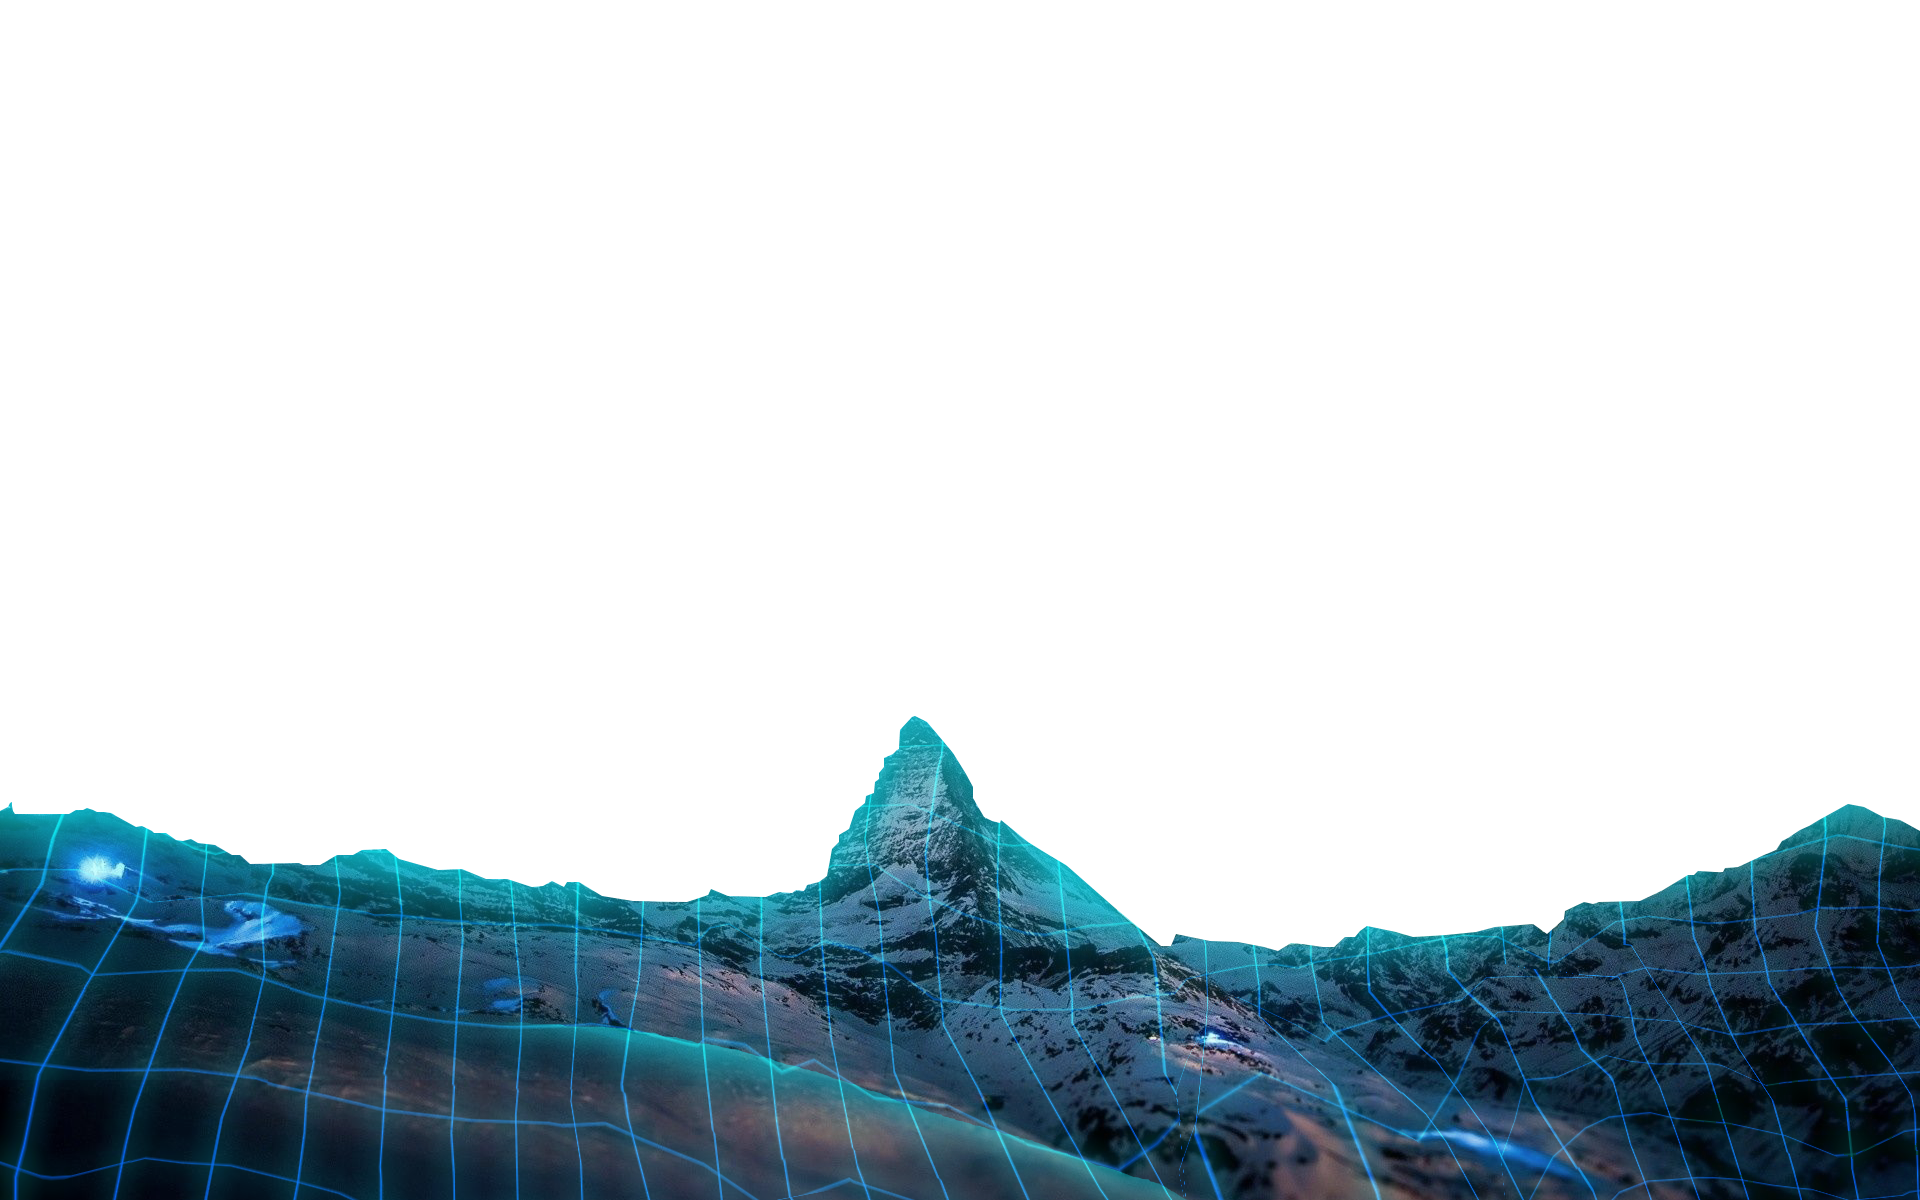
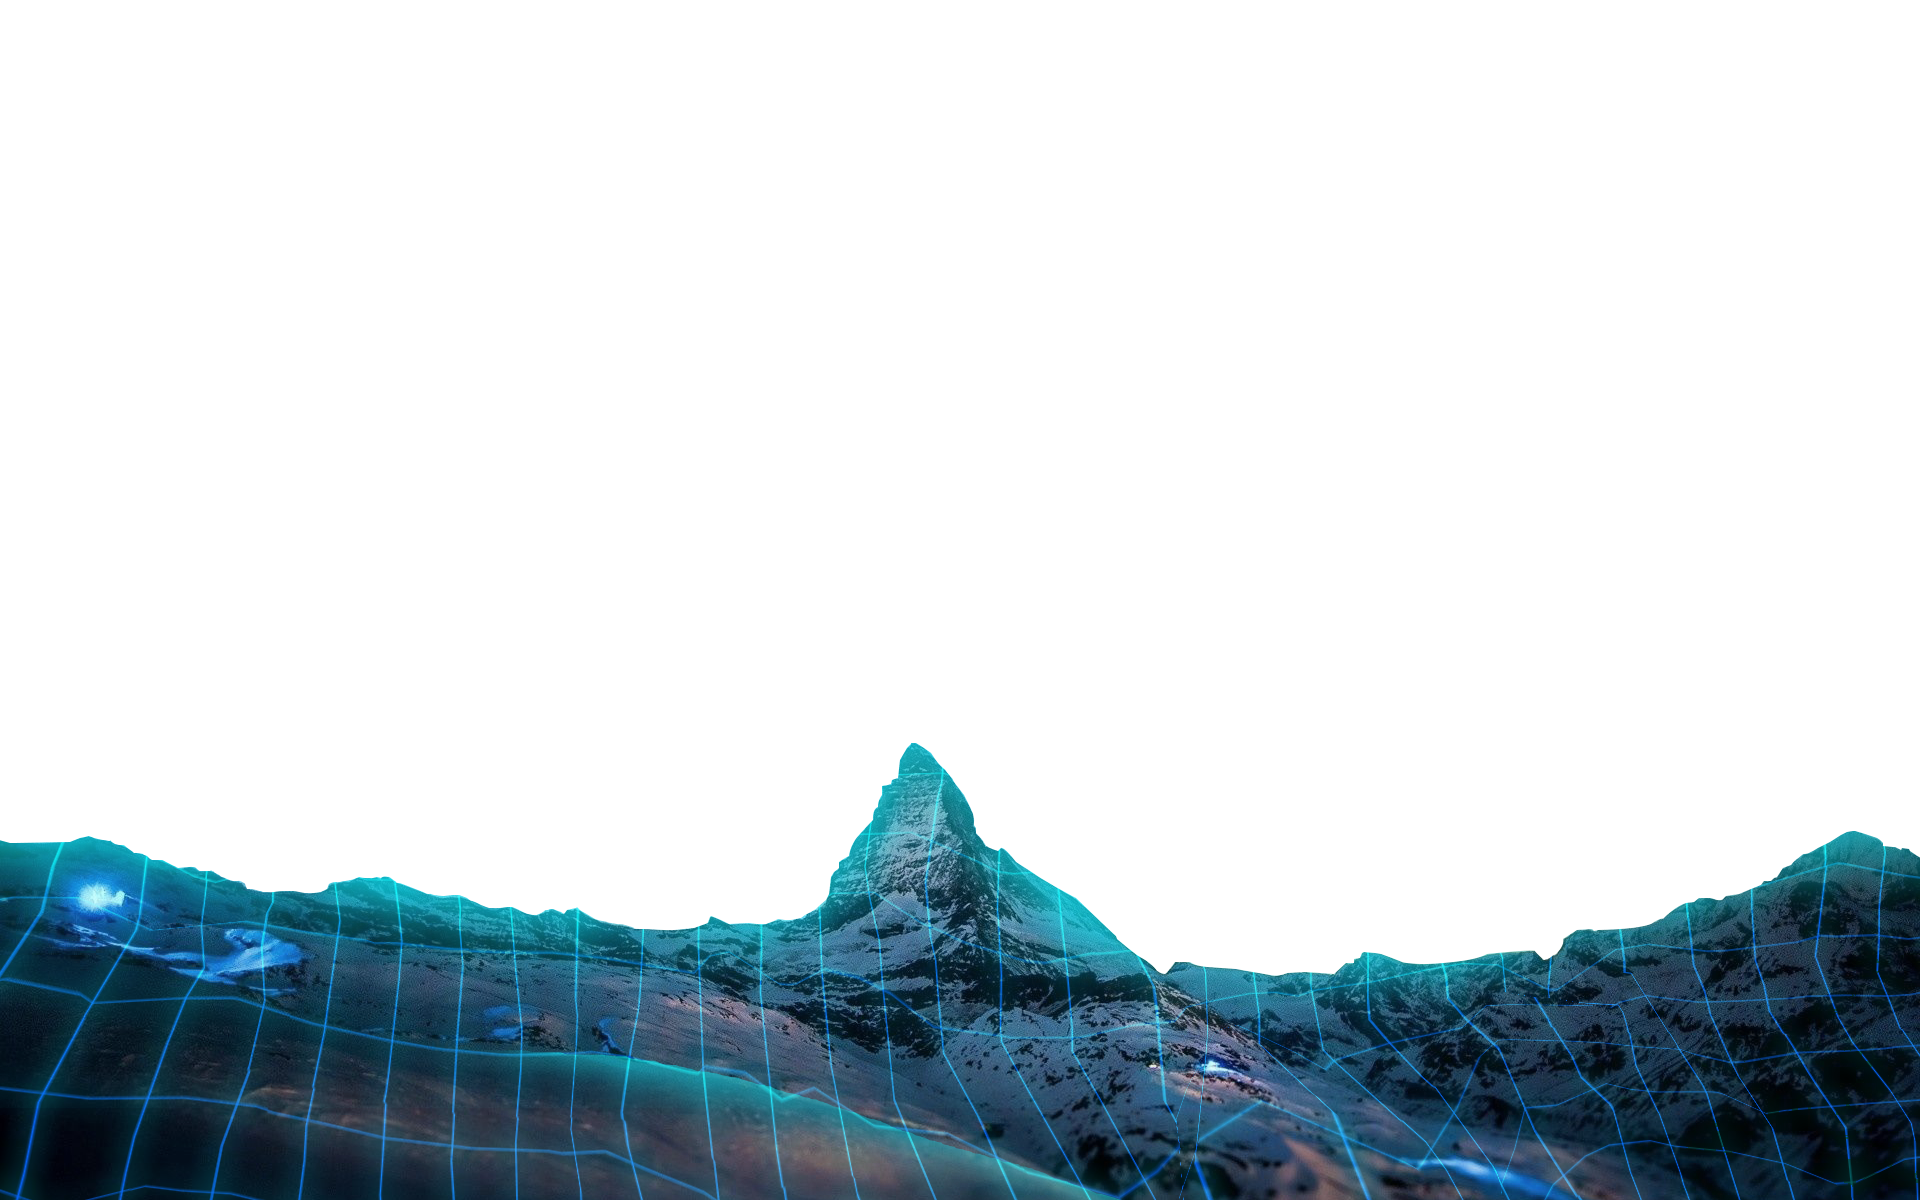
Redid assets to svg, (mostly) finished landing paage and worked on navigation

Changed region(s): [[0.0, 0.5858, 1.0, 1.0]]

diff --git a/src/styles/landing.css b/src/styles/landing.css
@@ -13,10 +13,16 @@
   text-align: center;
 }
 
+.title-contain h1::selection, .title-contain h2::selection, .title-contain span::selection  {
+  color: none;
+  background: none;
+}
+
 .title-contain h1 {
   font-family: 'Akrobat Bold';
   position: relative;
-  top: 18vh;
+  top: 23vh;
+  z-index: 1;
   font-size: 90pt;
   color: #dcdde1;
 }
@@ -25,7 +31,8 @@
   font-family: 'Akrobat Light';
   position: relative;
   color: #dcdde1;
-  top: 10vh;
+  z-index: 1;
+  top: 15vh;
   font-size: 32pt;
 }
 
@@ -36,6 +43,16 @@
 
 .landing img {
   position: absolute;
-  bottom: 0;
+  bottom: -20pt;
   z-index: 0;
+  width: 105%;
+  filter: drop-shadow(0px 0px 30px rgba(15, 242, 255, 0.25));
+}
+
+#titleAsset {
+  width: 250pt;
+  position: relative;
+  bottom: 18vh;
+  z-index: 0;
+  filter: drop-shadow(0px 0px 5px #0ff2ff);
 }

diff --git a/src/components/Landing.js b/src/components/Landing.js
@@ -2,6 +2,8 @@ import React from 'react';
 // eslint-disable-next-line
 import styles from '../styles/landing.css';
 import mountainImg from '../assets/img/mountains.png';
+import { ReactComponent as TitleAsset } from '../assets/shapes/TitleAsset.svg';
+
 
 class Landing extends React.Component {
   constructor(props) {
@@ -23,6 +25,7 @@ class Landing extends React.Component {
         <div className="title-contain">
           <h1> Sajan Toor </h1>
           <h2> I'm a <span className="highlight"> {this.state.currentWord}. </span> </h2>
+          <TitleAsset/>
         </div>
         <img src={mountainImg} alt=""/>
       </div>

diff --git a/src/components/Navigation.js b/src/components/Navigation.js
@@ -1,4 +1,5 @@
 import React from 'react';
+import styles from '../styles/navigation.css';
 
 class Navigation extends React.Component {
   constructor(props) {
@@ -11,8 +12,10 @@ class Navigation extends React.Component {
 
   render() {
     return(
-      <div>
-
+      <div className="navigation">
+        <h1> Projects </h1>
+        <h1> About </h1>
+        <h1> Home </h1>
       </div>
     )
   }

diff --git a/src/styles/navigation.css b/src/styles/navigation.css
@@ -1,0 +1,21 @@
+.navigation {
+  position: absolute;
+  top: 0px;
+  width: 100%;
+  z-index: 10;
+  display: block;
+}
+
+.navigation h1 {
+  color: #9a9a9b;
+  font-family: 'Akrobat Light', sans-serif;
+  padding: 5px;
+  padding-right: 4%;
+  font-size: 20pt;
+  float: right;
+}
+
+.navigation h1::selection {
+  color: none;
+  background-color: none;
+}

diff --git a/src/pages/Home.js b/src/pages/Home.js
@@ -1,10 +1,14 @@
 import React from 'react';
 import Landing from '../components/Landing';
+import Navigation from '../components/Navigation';
 
 class Home extends React.Component {
   render() {
     return(
-      <Landing/>
+      <React.Fragment>
+        <Navigation/>
+        <Landing/>
+      </React.Fragment>
     )
   }
 }
